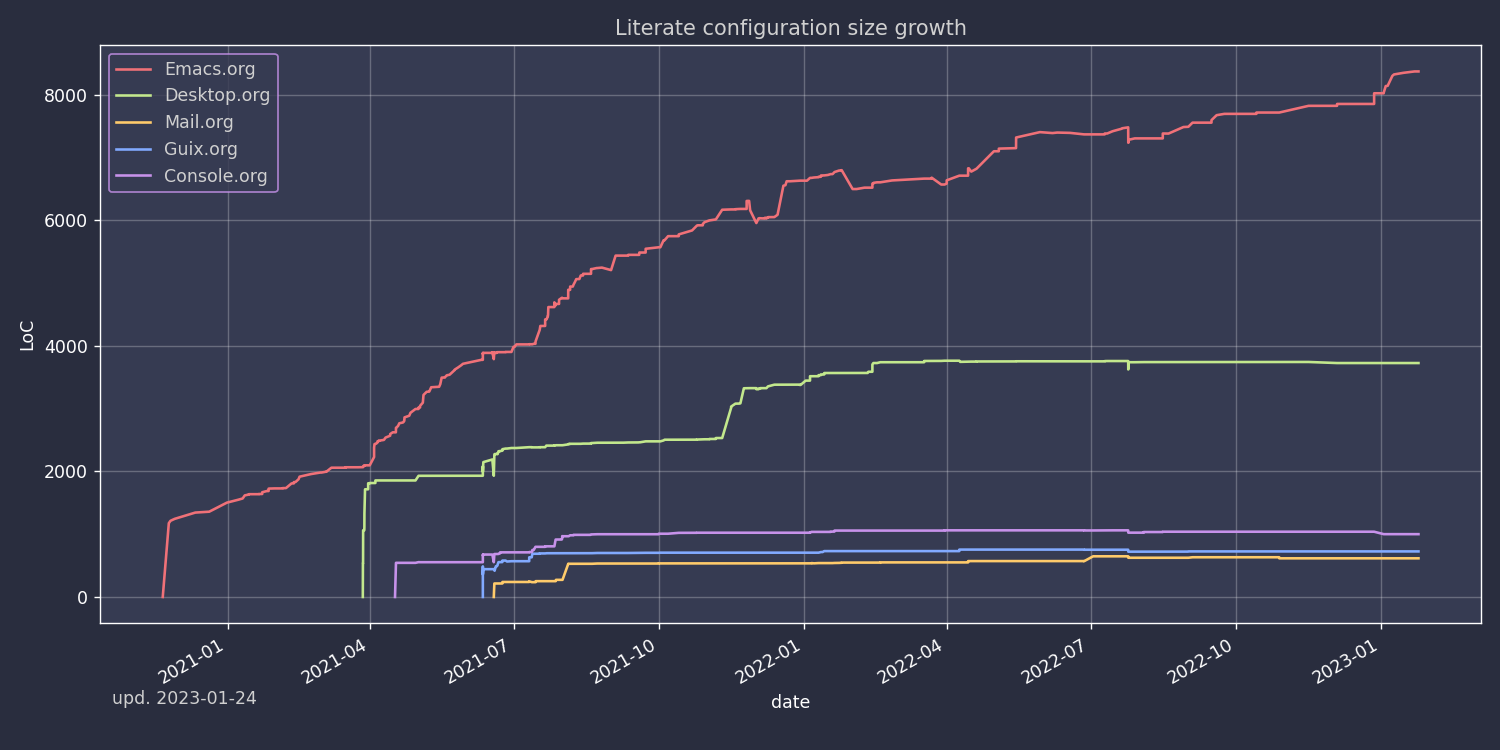
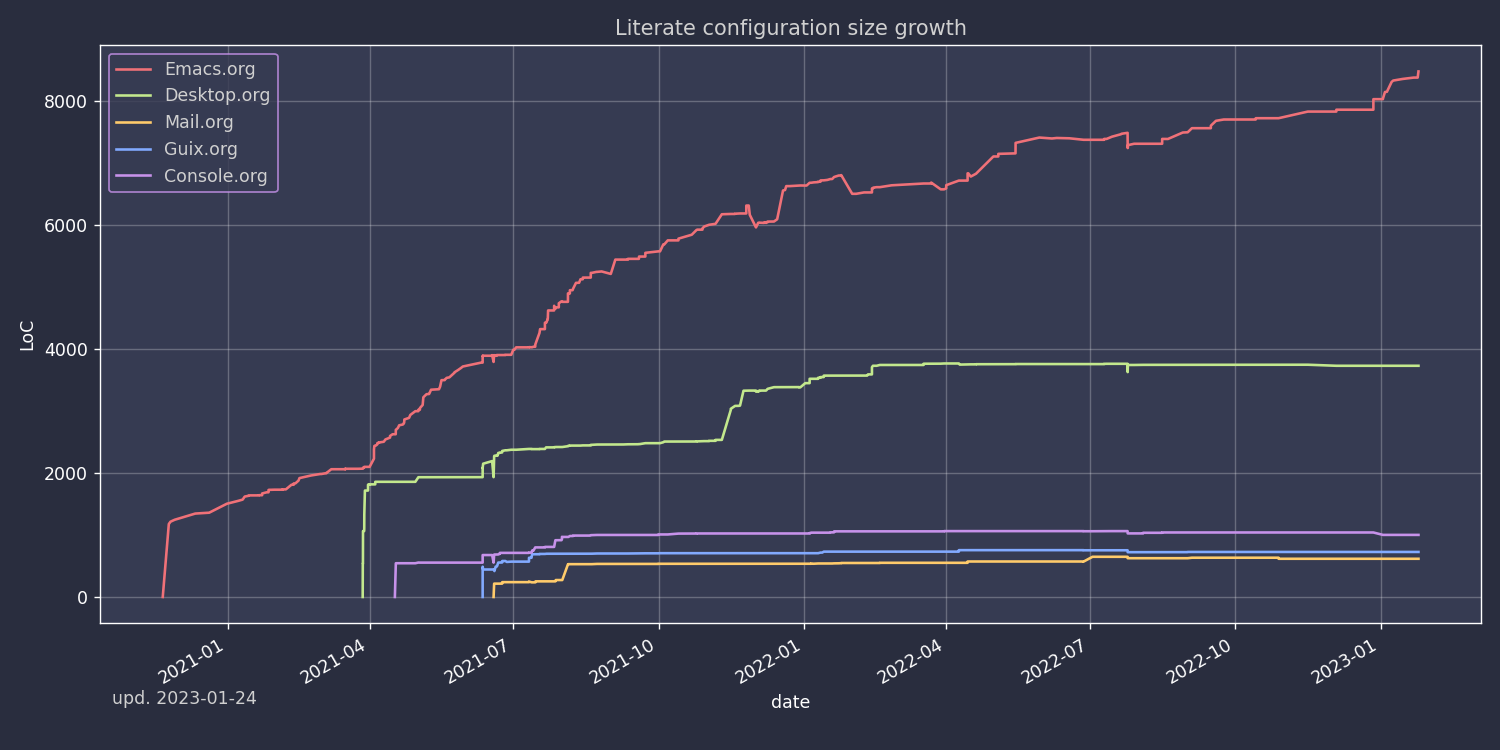
deploy: 280e0ed2e5447ba26fc20837575d41c52895d1c3

diff --git a/configs/emacs/index.html b/configs/emacs/index.html
@@ -4856,7 +4856,8 @@ Didn&rsquo;t work out as I expected, so I&rsquo;ve made <code>org-journal-tags</
 </span></span></code></pre></div><p>I have added this line to yadm&rsquo;s <code>post_alt</code> hook, so tangle is run after <code>yadm alt</code></p>
 <h2 id="applications">Applications</h2>
 <h3 id="dired-1">Dired</h3>
-<p>Dired is a built-in file manager. I currently use it as my primary file manager.</p>
+<p>Dired is a built-in file manager. It&rsquo;s so good that it&rsquo;s strange that, to my knowledge, no one tried to replicate it outside of Emacs.</p>
+<p>I currently use it as my primary file manager.</p>
 <h4 id="basic-config-and-keybindings">Basic config &amp; keybindings</h4>
 <p>My config mostly follows ranger&rsquo;s and vifm&rsquo;s keybindings which I&rsquo;m used to.</p>
 <div class="highlight"><pre tabindex="0" style=";-moz-tab-size:4;-o-tab-size:4;tab-size:4;"><code class="language-emacs-lisp" data-lang="emacs-lisp"><span style="display:flex;"><span>(<span style="color:#008000">use-package</span> <span style="color:#19177c">dired</span>
@@ -5191,6 +5192,7 @@ Didn&rsquo;t work out as I expected, so I&rsquo;ve made <code>org-journal-tags</
 </span></span><span style="display:flex;"><span>   <span style="color:#ba2121">&#34;M-j&#34;</span> <span style="color:#19177c">&#39;vterm-send-down</span>))
 </span></span></code></pre></div><h5 id="subterminal">Subterminal</h5>
 <p>Open a terminal in the lower third of the frame with the <code>`</code> key.</p>
+<p>I guess that&rsquo;s the first Emacs function I wrote!</p>
 <div class="highlight"><pre tabindex="0" style=";-moz-tab-size:4;-o-tab-size:4;tab-size:4;"><code class="language-emacs-lisp" data-lang="emacs-lisp"><span style="display:flex;"><span>(<span style="color:#19177c">add-to-list</span> <span style="color:#19177c">&#39;display-buffer-alist</span>
 </span></span><span style="display:flex;"><span>	     <span style="color:#666">`</span>(<span style="color:#666">,</span><span style="color:#ba2121">&#34;vterm-subterminal.*&#34;</span>
 </span></span><span style="display:flex;"><span>	       (<span style="color:#19177c">display-buffer-reuse-window</span>
@@ -5220,7 +5222,7 @@ Didn&rsquo;t work out as I expected, so I&rsquo;ve made <code>org-journal-tags</
 </span></span><span style="display:flex;"><span>  (<span style="color:#19177c">general-nmap</span> <span style="color:#ba2121">&#34;`&#34;</span> <span style="color:#19177c">&#39;my/toggle-vterm-subteminal</span>)
 </span></span><span style="display:flex;"><span>  (<span style="color:#19177c">general-nmap</span> <span style="color:#ba2121">&#34;~&#34;</span> <span style="color:#19177c">&#39;vterm</span>))
 </span></span></code></pre></div><h5 id="dired-integration">Dired integration</h5>
-<p>A function to get pwd for vterm. Couldn&rsquo;t find a built-in function for some reason, but this seems to be working fine:</p>
+<p>A function to get pwd for vterm. Couldn&rsquo;t find a built-in function for some reason, but this seems work fine:</p>
 <div class="highlight"><pre tabindex="0" style=";-moz-tab-size:4;-o-tab-size:4;tab-size:4;"><code class="language-emacs-lisp" data-lang="emacs-lisp"><span style="display:flex;"><span>(<span style="color:#008000">defun</span> <span style="color:#19177c">my/vterm-get-pwd</span> ()
 </span></span><span style="display:flex;"><span>  (<span style="color:#008000">if</span> <span style="color:#19177c">vterm--process</span>
 </span></span><span style="display:flex;"><span>      (<span style="color:#19177c">file-truename</span> (<span style="color:#00f">format</span> <span style="color:#ba2121">&#34;/proc/%d/cwd&#34;</span> (<span style="color:#00f">process-id</span> <span style="color:#19177c">vterm--process</span>)))
@@ -5253,7 +5255,7 @@ Didn&rsquo;t work out as I expected, so I&rsquo;ve made <code>org-journal-tags</
 </span></span><span style="display:flex;"><span>  <span style="color:#008000">:after</span> (<span style="color:#19177c">vterm</span>)
 </span></span><span style="display:flex;"><span>  <span style="color:#008000">:config</span>
 </span></span><span style="display:flex;"><span>  (<span style="color:#19177c">add-hook</span> <span style="color:#19177c">&#39;vterm-mode-hook</span> <span style="color:#19177c">&#39;with-editor-export-editor</span>))
-</span></span></code></pre></div><h4 id="eshell">Eshell</h4>
+</span></span></code></pre></div><h4 id="eshell">eshell</h4>
 <p>A shell written in Emacs lisp. I don&rsquo;t use it as of now, but keep the config just in case.</p>
 <div class="highlight"><pre tabindex="0" style=";-moz-tab-size:4;-o-tab-size:4;tab-size:4;"><code class="language-emacs-lisp" data-lang="emacs-lisp"><span style="display:flex;"><span>(<span style="color:#008000">defun</span> <span style="color:#19177c">my/configure-eshell</span> ()
 </span></span><span style="display:flex;"><span>  (<span style="color:#19177c">add-hook</span> <span style="color:#19177c">&#39;eshell-pre-command-hook</span> <span style="color:#19177c">&#39;eshell-save-some-history</span>)
@@ -5316,7 +5318,7 @@ Didn&rsquo;t work out as I expected, so I&rsquo;ve made <code>org-journal-tags</
 </span></span><span style="display:flex;"><span>(<span style="color:#008000">when</span> (<span style="color:#008000">or</span> <span style="color:#19177c">my/slow-ssh</span> <span style="color:#19177c">my/remote-server</span>)
 </span></span><span style="display:flex;"><span>  (<span style="color:#19177c">general-nmap</span> <span style="color:#ba2121">&#34;`&#34;</span> <span style="color:#19177c">&#39;aweshell-dedicated-toggle</span>)
 </span></span><span style="display:flex;"><span>  (<span style="color:#19177c">general-nmap</span> <span style="color:#ba2121">&#34;~&#34;</span> <span style="color:#19177c">&#39;eshell</span>))
-</span></span></code></pre></div><h4 id="shell-1">Shell</h4>
+</span></span></code></pre></div><h4 id="shell-1">shell</h4>
 <p>Interactive subshell (<code>M-x shell</code>) is a way to run commands with input and output through an Emacs buffer.</p>
 <div class="highlight"><pre tabindex="0" style=";-moz-tab-size:4;-o-tab-size:4;tab-size:4;"><code class="language-emacs-lisp" data-lang="emacs-lisp"><span style="display:flex;"><span>(<span style="color:#008000">defun</span> <span style="color:#19177c">my/setup-shell</span> ()
 </span></span><span style="display:flex;"><span>  (<span style="color:#008000">setq-local</span> <span style="color:#19177c">comint-use-prompt-regexp</span> <span style="color:#800">t</span>)
@@ -5566,7 +5568,7 @@ Didn&rsquo;t work out as I expected, so I&rsquo;ve made <code>org-journal-tags</
 </tr>
 </tbody>
 </table>
-<p>It seems like the tool <a href="https://repology.org/project/rdrview/versions">isn&rsquo;t available</a> in a whole lot of package repositories, but it&rsquo;s pretty easy to compile. I&rsquo;ve put together a <a href="https://github.com/SqrtMinusOne/channel-q/blob/master/rdrview.scm">Guix definition</a>, which <em>one day</em> I&rsquo;ll submit to upstream.</p>
+<p>It seems like the tool <a href="https://repology.org/project/rdrview/versions">isn&rsquo;t available</a> in a whole lot of package repositories, but it&rsquo;s pretty easy to compile. I&rsquo;ve put together a <a href="https://github.com/SqrtMinusOne/channel-q/blob/master/rdrview.scm">Guix definition</a>, which <em>one day</em> I&rsquo;ll submit to the upstream.</p>
 <h5 id="integrating-rdrview-with-emacs">Integrating rdrview with Emacs</h5>
 <p>Let&rsquo;s start by integrating <code>rdrview</code> with Emacs. In the general case, we want to fetch both metadata and the actual content from the page.</p>
 <p>However, the interface of <code>rdrview</code> is a bit awkward in this part, so we have the following options:</p>
@@ -6405,12 +6407,13 @@ Didn&rsquo;t work out as I expected, so I&rsquo;ve made <code>org-journal-tags</
 </span></span><span style="display:flex;"><span>      <span style="color:#19177c">alists</span>)))
 </span></span></code></pre></div><h4 id="ytel">ytel</h4>
 <p><a href="https://github.com/gRastello/ytel">ytel</a> is a YouTube (actually Invidious) frontend, which lets one search YouTube (whereas the setup with elfeed just lets one view the pre-defined subscriptions).</p>
+<h5 id="package-config">Package config</h5>
 <p>The package doesn&rsquo;t provide evil bindings, so I define my own.</p>
 <div class="highlight"><pre tabindex="0" style=";-moz-tab-size:4;-o-tab-size:4;tab-size:4;"><code class="language-emacs-lisp" data-lang="emacs-lisp"><span style="display:flex;"><span>(<span style="color:#008000">use-package</span> <span style="color:#19177c">ytel</span>
 </span></span><span style="display:flex;"><span>  <span style="color:#008000">:straight</span> <span style="color:#800">t</span>
 </span></span><span style="display:flex;"><span>  <span style="color:#008000">:commands</span> (<span style="color:#19177c">ytel</span>)
 </span></span><span style="display:flex;"><span>  <span style="color:#008000">:config</span>
-</span></span><span style="display:flex;"><span>  (<span style="color:#008000">setq</span> <span style="color:#19177c">ytel-invidious-api-url</span> <span style="color:#ba2121">&#34;https://watch.thekitty.zone/&#34;</span>)
+</span></span><span style="display:flex;"><span>  (<span style="color:#008000">setq</span> <span style="color:#19177c">ytel-invidious-api-url</span> <span style="color:#ba2121">&#34;https://invidio.xamh.de/&#34;</span>)
 </span></span><span style="display:flex;"><span>  (<span style="color:#19177c">general-define-key</span>
 </span></span><span style="display:flex;"><span>   <span style="color:#008000">:states</span> <span style="color:#666">&#39;</span>(<span style="color:#19177c">normal</span>)
 </span></span><span style="display:flex;"><span>   <span style="color:#008000">:keymaps</span> <span style="color:#19177c">&#39;ytel-mode-map</span>
@@ -6419,7 +6422,8 @@ Didn&rsquo;t work out as I expected, so I&rsquo;ve made <code>org-journal-tags</
 </span></span><span style="display:flex;"><span>   <span style="color:#ba2121">&#34;L&#34;</span> <span style="color:#00f">#&#39;</span><span style="color:#19177c">ytel-search-next-page</span>
 </span></span><span style="display:flex;"><span>   <span style="color:#ba2121">&#34;H&#34;</span> <span style="color:#00f">#&#39;</span><span style="color:#19177c">ytel-search-previous-page</span>
 </span></span><span style="display:flex;"><span>   <span style="color:#ba2121">&#34;RET&#34;</span> <span style="color:#00f">#&#39;</span><span style="color:#19177c">my/ytel-add-emms</span>))
-</span></span></code></pre></div><p>And here is the same kind of integration with EMMS as in the elfeed setup:</p>
+</span></span></code></pre></div><h5 id="emms-integration">EMMS integration</h5>
+<p>And here is the same kind of integration with EMMS as in the elfeed setup:</p>
 <div class="highlight"><pre tabindex="0" style=";-moz-tab-size:4;-o-tab-size:4;tab-size:4;"><code class="language-emacs-lisp" data-lang="emacs-lisp"><span style="display:flex;"><span>(<span style="color:#008000">with-eval-after-load</span> <span style="color:#19177c">&#39;emms</span>
 </span></span><span style="display:flex;"><span>  (<span style="color:#19177c">define-emms-source</span> <span style="color:#19177c">ytel</span> (<span style="color:#19177c">video</span>)
 </span></span><span style="display:flex;"><span>    (<span style="color:#008000">let</span> ((<span style="color:#19177c">track</span> (<span style="color:#19177c">emms-track</span>
@@ -6432,17 +6436,93 @@ Didn&rsquo;t work out as I expected, so I&rsquo;ve made <code>org-journal-tags</
 </span></span><span style="display:flex;"><span>(<span style="color:#008000">defun</span> <span style="color:#19177c">my/ytel-add-emms</span> ()
 </span></span><span style="display:flex;"><span>  (<span style="color:#008000">interactive</span>)
 </span></span><span style="display:flex;"><span>  (<span style="color:#19177c">emms-add-ytel</span> (<span style="color:#19177c">ytel-get-current-video</span>)))
-</span></span></code></pre></div><p>Also, a function to copy a URL to the video under cursor.</p>
+</span></span></code></pre></div><h5 id="choosing-instances">Choosing instances</h5>
+<p>Invidious instances aren&rsquo;t particularly reliable, but there plenty of them, and there&rsquo;s an API at <code>invidious.io</code> that returns the available instances and their health, so we can use that.</p>
+<p>Inspired by <a href="https://github.com/grastello/ytel/issues/17#issuecomment-801745429">this comment</a>.</p>
+<div class="highlight"><pre tabindex="0" style=";-moz-tab-size:4;-o-tab-size:4;tab-size:4;"><code class="language-emacs-lisp" data-lang="emacs-lisp"><span style="display:flex;"><span>(<span style="color:#008000">setq</span> <span style="color:#19177c">my/invidious-instances-url</span>
+</span></span><span style="display:flex;"><span>      <span style="color:#ba2121">&#34;https://api.invidious.io/instances.json?pretty=1&amp;sort_by=health&#34;</span>)
+</span></span></code></pre></div><div class="highlight"><pre tabindex="0" style=";-moz-tab-size:4;-o-tab-size:4;tab-size:4;"><code class="language-emacs-lisp" data-lang="emacs-lisp"><span style="display:flex;"><span>(<span style="color:#008000">defun</span> <span style="color:#19177c">my/ytel-instances-fetch-json</span> ()
+</span></span><span style="display:flex;"><span>  <span style="color:#ba2121">&#34;Fetch list of invidious instances as json, sorted by health.&#34;</span>
+</span></span><span style="display:flex;"><span>  (<span style="color:#008000">let</span>
+</span></span><span style="display:flex;"><span>      ((<span style="color:#19177c">url-request-method</span> <span style="color:#ba2121">&#34;GET&#34;</span>)
+</span></span><span style="display:flex;"><span>       (<span style="color:#19177c">url-request-extra-headers</span>
+</span></span><span style="display:flex;"><span>	<span style="color:#666">&#39;</span>((<span style="color:#ba2121">&#34;Accept&#34;</span> <span style="color:#666">.</span> <span style="color:#ba2121">&#34;application/json&#34;</span>))))
+</span></span><span style="display:flex;"><span>    (<span style="color:#008000">with-current-buffer</span>
+</span></span><span style="display:flex;"><span>	(<span style="color:#19177c">url-retrieve-synchronously</span> <span style="color:#19177c">invidious-instances-url</span>)
+</span></span><span style="display:flex;"><span>      (<span style="color:#00f">goto-char</span> (<span style="color:#00f">point-min</span>))
+</span></span><span style="display:flex;"><span>      (<span style="color:#00f">re-search-forward</span> <span style="color:#ba2121">&#34;^$&#34;</span>)
+</span></span><span style="display:flex;"><span>      (<span style="color:#008000">let*</span> ((<span style="color:#19177c">json-object-type</span> <span style="color:#19177c">&#39;alist</span>)
+</span></span><span style="display:flex;"><span>	     (<span style="color:#19177c">json-array-type</span> <span style="color:#19177c">&#39;list</span>)
+</span></span><span style="display:flex;"><span>	     (<span style="color:#19177c">json-key-type</span> <span style="color:#19177c">&#39;string</span>))
+</span></span><span style="display:flex;"><span>	(<span style="color:#19177c">json-read</span>)))))
+</span></span><span style="display:flex;"><span>
+</span></span><span style="display:flex;"><span>(<span style="color:#008000">defun</span> <span style="color:#19177c">my/ytel-instances-alist-from-json</span> ()
+</span></span><span style="display:flex;"><span>  <span style="color:#ba2121">&#34;Make the json of invidious instances into an alist.&#34;</span>
+</span></span><span style="display:flex;"><span>  (<span style="color:#008000">let</span> ((<span style="color:#19177c">jsonlist</span> (<span style="color:#19177c">my/ytel-instances-fetch-json</span>))
+</span></span><span style="display:flex;"><span>	(<span style="color:#19177c">inst</span> ()))
+</span></span><span style="display:flex;"><span>    (<span style="color:#008000">while</span> <span style="color:#19177c">jsonlist</span>
+</span></span><span style="display:flex;"><span>      (<span style="color:#008000">push</span> (<span style="color:#00f">concat</span> <span style="color:#ba2121">&#34;https://&#34;</span> (<span style="color:#19177c">caar</span> <span style="color:#19177c">jsonlist</span>)) <span style="color:#19177c">inst</span>)
+</span></span><span style="display:flex;"><span>      (<span style="color:#008000">setq</span> <span style="color:#19177c">jsonlist</span> (<span style="color:#00f">cdr</span> <span style="color:#19177c">jsonlist</span>)))
+</span></span><span style="display:flex;"><span>    (<span style="color:#00f">nreverse</span> <span style="color:#19177c">inst</span>)))
+</span></span><span style="display:flex;"><span>
+</span></span><span style="display:flex;"><span>(<span style="color:#008000">defun</span> <span style="color:#19177c">my/ytel-choose-instance</span> ()
+</span></span><span style="display:flex;"><span>  <span style="color:#ba2121">&#34;Prompt user to choose an invidious instance to use.&#34;</span>
+</span></span><span style="display:flex;"><span>  (<span style="color:#008000">interactive</span>)
+</span></span><span style="display:flex;"><span>  (<span style="color:#008000">setq</span> <span style="color:#19177c">ytel-invidious-api-url</span>
+</span></span><span style="display:flex;"><span>	(<span style="color:#008000">or</span> (<span style="color:#008000">condition-case</span> <span style="color:#800">nil</span>
+</span></span><span style="display:flex;"><span>		(<span style="color:#00f">completing-read</span> <span style="color:#ba2121">&#34;Using instance: &#34;</span>
+</span></span><span style="display:flex;"><span>				 (<span style="color:#19177c">cl-subseq</span> (<span style="color:#19177c">my/ytel-instances-alist-from-json</span>) <span style="color:#666">0</span> <span style="color:#666">11</span>) <span style="color:#800">nil</span> <span style="color:#ba2121">&#34;confirm&#34;</span> <span style="color:#ba2121">&#34;https://&#34;</span>)
+</span></span><span style="display:flex;"><span>	      (<span style="color:#d2413a;font-weight:bold">error</span> <span style="color:#800">nil</span>))
+</span></span><span style="display:flex;"><span>	    <span style="color:#ba2121">&#34;https://invidious.synopyta.org&#34;</span>)))
+</span></span></code></pre></div><h5 id="some-fixes">Some fixes</h5>
+<p>At some point in the last 2 years, Invidious started to return videos with <code>null</code> fields. I have no idea what causes that, but I suspect it&rsquo;s related to YouTube Music.</p>
+<p><code>ytel</code> hasn&rsquo;t been updated in these two years, so it doesn&rsquo;t account for that change.</p>
+<p>So, let&rsquo;s skip videos with null titles.</p>
+<div class="highlight"><pre tabindex="0" style=";-moz-tab-size:4;-o-tab-size:4;tab-size:4;"><code class="language-emacs-lisp" data-lang="emacs-lisp"><span style="display:flex;"><span>(<span style="color:#008000">defun</span> <span style="color:#19177c">my/ytel-draw--buffer-nil-videos-fix</span> ()
+</span></span><span style="display:flex;"><span>  (<span style="color:#008000">let</span> ((<span style="color:#19177c">inhibit-read-only</span> <span style="color:#800">t</span>)
+</span></span><span style="display:flex;"><span>	    (<span style="color:#19177c">current-line</span>      (<span style="color:#19177c">line-number-at-pos</span>)))
+</span></span><span style="display:flex;"><span>    (<span style="color:#00f">erase-buffer</span>)
+</span></span><span style="display:flex;"><span>    (<span style="color:#008000">setf</span> <span style="color:#19177c">header-line-format</span>
+</span></span><span style="display:flex;"><span>	  (<span style="color:#00f">concat</span> <span style="color:#ba2121">&#34;Search results for &#34;</span>
+</span></span><span style="display:flex;"><span>				  (<span style="color:#00f">propertize</span> <span style="color:#19177c">ytel-search-term</span> <span style="color:#19177c">&#39;face</span> <span style="color:#19177c">&#39;ytel-video-published-face</span>)
+</span></span><span style="display:flex;"><span>				  <span style="color:#ba2121">&#34;, page &#34;</span>
+</span></span><span style="display:flex;"><span>				  (<span style="color:#00f">number-to-string</span> <span style="color:#19177c">ytel-current-page</span>)))
+</span></span><span style="display:flex;"><span>    (<span style="color:#19177c">seq-do</span>
+</span></span><span style="display:flex;"><span>     (<span style="color:#008000">lambda</span> (<span style="color:#19177c">v</span>)
+</span></span><span style="display:flex;"><span>	   (<span style="color:#19177c">ytel--insert-video</span> <span style="color:#19177c">v</span>)
+</span></span><span style="display:flex;"><span>	   (<span style="color:#00f">insert</span> <span style="color:#ba2121">&#34;\n&#34;</span>))
+</span></span><span style="display:flex;"><span>     (<span style="color:#19177c">seq-filter</span>
+</span></span><span style="display:flex;"><span>      (<span style="color:#008000">lambda</span> (<span style="color:#19177c">v</span>)
+</span></span><span style="display:flex;"><span>	(<span style="color:#19177c">ytel-video-title</span> <span style="color:#19177c">v</span>))
+</span></span><span style="display:flex;"><span>      <span style="color:#19177c">ytel-videos</span>))
+</span></span><span style="display:flex;"><span>    (<span style="color:#00f">goto-char</span> (<span style="color:#00f">point-min</span>))))
+</span></span><span style="display:flex;"><span>
+</span></span><span style="display:flex;"><span>(<span style="color:#008000">with-eval-after-load</span> <span style="color:#19177c">&#39;ytel</span>
+</span></span><span style="display:flex;"><span>  (<span style="color:#19177c">advice-add</span> <span style="color:#00f">#&#39;</span><span style="color:#19177c">ytel--draw-buffer</span> <span style="color:#008000">:override</span> <span style="color:#00f">#&#39;</span><span style="color:#19177c">my/ytel-draw--buffer-nil-videos-fix</span>))
+</span></span></code></pre></div><p>And render other potentially <code>null</code> fields as &ldquo;unknown&rdquo;.</p>
+<div class="highlight"><pre tabindex="0" style=";-moz-tab-size:4;-o-tab-size:4;tab-size:4;"><code class="language-emacs-lisp" data-lang="emacs-lisp"><span style="display:flex;"><span>(<span style="color:#008000">defun</span> <span style="color:#19177c">my/ytel--format-unknown-fix</span> (<span style="color:#19177c">fun</span> <span style="color:#008000">&amp;rest</span> <span style="color:#19177c">args</span>)
+</span></span><span style="display:flex;"><span>  (<span style="color:#008000">if</span> (<span style="color:#00f">car</span> <span style="color:#19177c">args</span>)
+</span></span><span style="display:flex;"><span>      (<span style="color:#00f">apply</span> <span style="color:#19177c">fun</span> <span style="color:#19177c">args</span>)
+</span></span><span style="display:flex;"><span>    <span style="color:#ba2121">&#34;unknown   &#34;</span>))
+</span></span><span style="display:flex;"><span>
+</span></span><span style="display:flex;"><span>(<span style="color:#008000">with-eval-after-load</span> <span style="color:#19177c">&#39;ytel</span>
+</span></span><span style="display:flex;"><span>  (<span style="color:#19177c">advice-add</span> <span style="color:#00f">#&#39;</span><span style="color:#19177c">ytel--format-video-length</span> <span style="color:#008000">:around</span> <span style="color:#00f">#&#39;</span><span style="color:#19177c">my/ytel--format-unknown-fix</span>)
+</span></span><span style="display:flex;"><span>  (<span style="color:#19177c">advice-add</span> <span style="color:#00f">#&#39;</span><span style="color:#19177c">ytel--format-video-published</span> <span style="color:#008000">:around</span> <span style="color:#00f">#&#39;</span><span style="color:#19177c">my/ytel--format-unknown-fix</span>)
+</span></span><span style="display:flex;"><span>  (<span style="color:#19177c">advice-add</span> <span style="color:#00f">#&#39;</span><span style="color:#19177c">ytel--format-video-views</span> <span style="color:#008000">:around</span> <span style="color:#00f">#&#39;</span><span style="color:#19177c">my/ytel--format-unknown-fix</span>))
+</span></span></code></pre></div><h5 id="some-functions">Some functions</h5>
+<p>Also, a function to copy a URL to the video under cursor.</p>
 <div class="highlight"><pre tabindex="0" style=";-moz-tab-size:4;-o-tab-size:4;tab-size:4;"><code class="language-emacs-lisp" data-lang="emacs-lisp"><span style="display:flex;"><span>(<span style="color:#008000">defun</span> <span style="color:#19177c">my/ytel-kill-url</span> ()
 </span></span><span style="display:flex;"><span>  (<span style="color:#008000">interactive</span>)
 </span></span><span style="display:flex;"><span>  (<span style="color:#19177c">kill-new</span>
 </span></span><span style="display:flex;"><span>   (<span style="color:#00f">concat</span>
 </span></span><span style="display:flex;"><span>    <span style="color:#ba2121">&#34;https://www.youtube.com/watch?v=&#34;</span>
 </span></span><span style="display:flex;"><span>    (<span style="color:#19177c">ytel-video-id</span> (<span style="color:#19177c">ytel-get-current-video</span>)))))
-</span></span></code></pre></div><h4 id="wallabag">wallabag</h4>
+</span></span></code></pre></div><h4 id="wallabag"><span class="org-todo done OFF">OFF</span> wallabag</h4>
 <p><a href="https://github.com/wallabag/wallabag">Wallabag</a> is a self-hosted read-it-later project. I&rsquo;m not yet sold on integrating it in my workflow, but let&rsquo;s keep it here for now.</p>
+<p>Edit <span class="timestamp-wrapper"><span class="timestamp">&lt;2023-01-24 Tue&gt;</span></span>: well, that didn&rsquo;t work out. Running Tiny Tiny RSS &amp; syncing it with elfeed seems to cover most of my read-it-later use cases.</p>
 <div class="highlight"><pre tabindex="0" style=";-moz-tab-size:4;-o-tab-size:4;tab-size:4;"><code class="language-emacs-lisp" data-lang="emacs-lisp"><span style="display:flex;"><span>(<span style="color:#008000">use-package</span> <span style="color:#19177c">wallabag</span>
 </span></span><span style="display:flex;"><span>  <span style="color:#008000">:straight</span> (<span style="color:#008000">:host</span> <span style="color:#19177c">github</span> <span style="color:#008000">:repo</span> <span style="color:#ba2121">&#34;chenyanming/wallabag.el&#34;</span> <span style="color:#008000">:files</span> (<span style="color:#008000">:defaults</span> <span style="color:#ba2121">&#34;default.css&#34;</span> <span style="color:#ba2121">&#34;emojis.alist&#34;</span>))
+</span></span><span style="display:flex;"><span>  <span style="color:#008000">:disabled</span>
 </span></span><span style="display:flex;"><span>  <span style="color:#008000">:commands</span> (<span style="color:#19177c">wallabag</span> <span style="color:#19177c">wallabag-add-entry</span>)
 </span></span><span style="display:flex;"><span>  <span style="color:#008000">:config</span>
 </span></span><span style="display:flex;"><span>  (<span style="color:#008000">setq</span> <span style="color:#19177c">wallabag-host</span> <span style="color:#ba2121">&#34;https://wallabag.sqrtminusone.xyz&#34;</span>)
@@ -7621,8 +7701,8 @@ I&rsquo;ve seen a couple of cases where people would swap their username and ema
         <li><a href="#shells">Shells</a>
           <ul>
             <li><a href="#vterm">vterm</a></li>
-            <li><a href="#eshell">Eshell</a></li>
-            <li><a href="#shell-1">Shell</a></li>
+            <li><a href="#eshell">eshell</a></li>
+            <li><a href="#shell-1">shell</a></li>
           </ul>
         </li>
         <li><a href="#managing-dotfiles">Managing dotfiles</a>
@@ -7651,7 +7731,7 @@ I&rsquo;ve seen a couple of cases where people would swap their username and ema
             <li><a href="#notmuch">Notmuch</a></li>
             <li><a href="#emms">EMMS</a></li>
             <li><a href="#ytel">ytel</a></li>
-            <li><a href="#wallabag">wallabag</a></li>
+            <li><a href="#wallabag"><span class="org-todo done OFF">OFF</span> wallabag</a></li>
             <li><a href="#eww">EWW</a></li>
             <li><a href="#erc">ERC</a></li>
             <li><a href="#ement-dot-el">ement.el</a></li>
